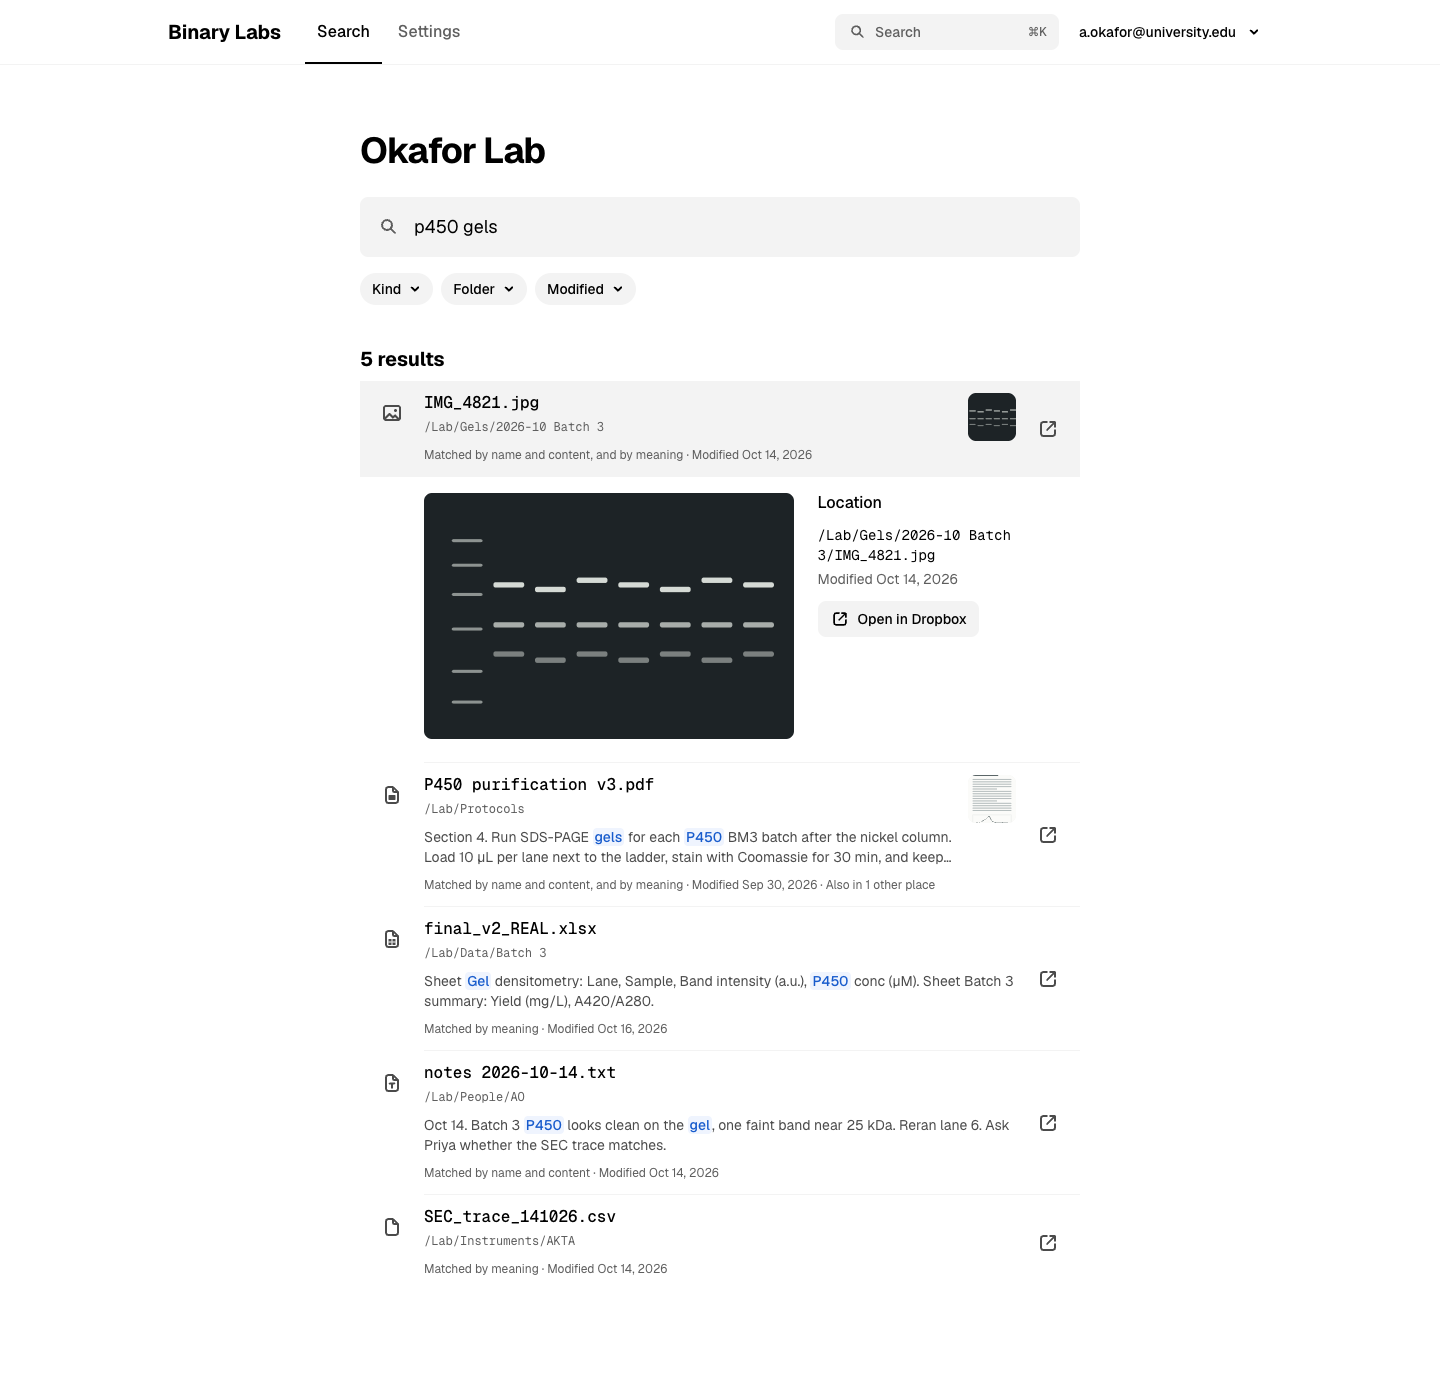
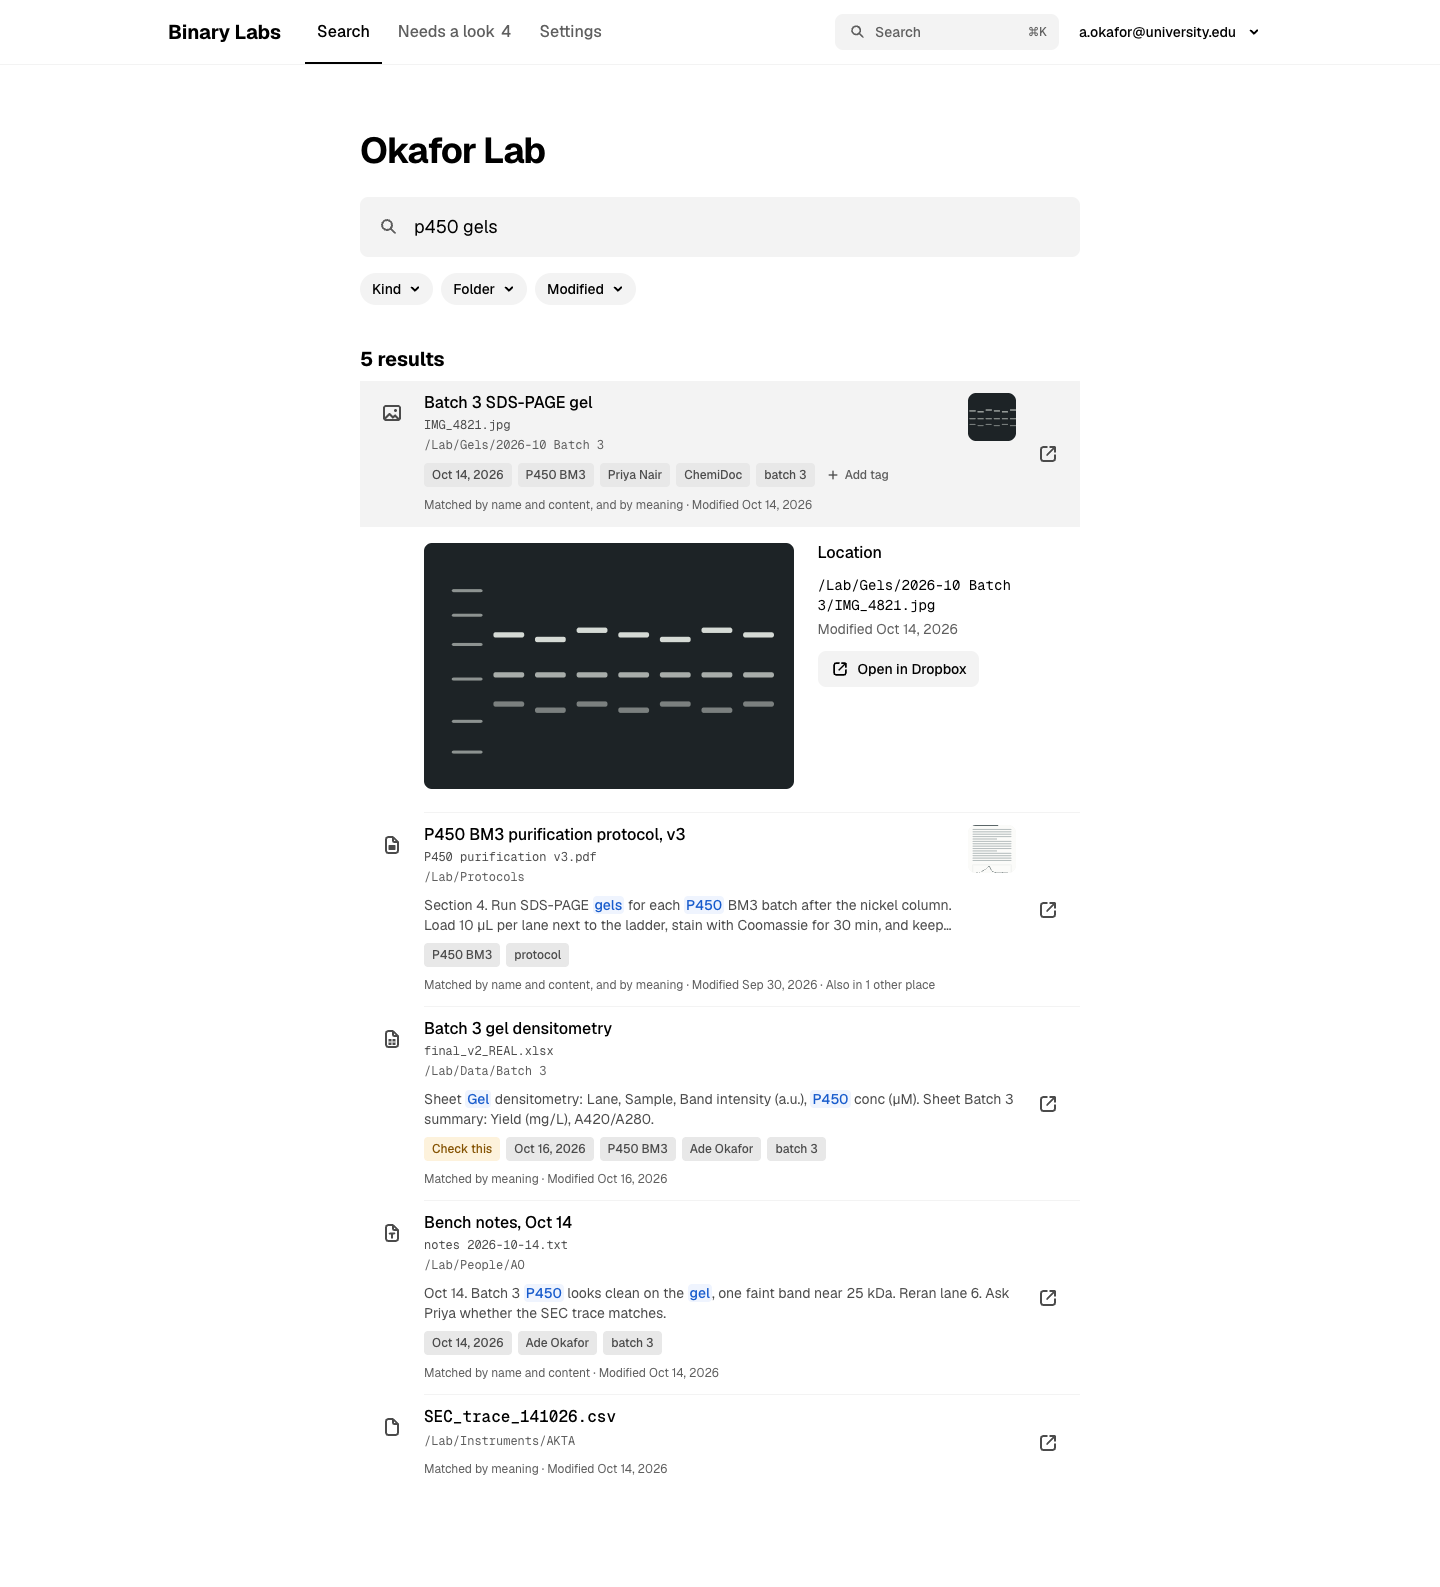
label fixtures and screenshots

diff --git a/apps/web/src/fixtures/data.ts b/apps/web/src/fixtures/data.ts
@@ -1,4 +1,13 @@
-import { LabMemberRows, SearchFilesRows, type FileHit } from "@/lib/domain";
+import {
+  ExperimentRows,
+  LabelRow,
+  LabMemberRows,
+  NeedsLookRows,
+  PersonRows,
+  SearchFilesRows,
+  type FileHit,
+  type Label,
+} from "@/lib/domain";
 import { SourceId } from "@/lib/ids";
 import type { SourceState } from "@/lib/source-state";
 
@@ -15,6 +24,43 @@ const loc = (path: string, modified: string) => ({
   modified_at: modified,
 });
 
+export const experiments = ExperimentRows.parse([
+  { id: "6f1c2c39-5a4e-4c55-9d7b-0c3c1a7ae001", name: "P450 BM3", aliases: ["BM3", "CYP102A1"] },
+  { id: "6f1c2c39-5a4e-4c55-9d7b-0c3c1a7ae002", name: "Solubility screen", aliases: ["sol screen"] },
+  { id: "6f1c2c39-5a4e-4c55-9d7b-0c3c1a7ae003", name: "Rotation projects", aliases: [] },
+]);
+
+export const people = PersonRows.parse([
+  { id: "6f1c2c39-5a4e-4c55-9d7b-0c3c1a7af001", display_name: "Ade Okafor", aliases: ["AO", "Ade"] },
+  { id: "6f1c2c39-5a4e-4c55-9d7b-0c3c1a7af002", display_name: "Priya Nair", aliases: ["PN", "Priya"] },
+  { id: "6f1c2c39-5a4e-4c55-9d7b-0c3c1a7af003", display_name: "Jordan Morales", aliases: ["JM"] },
+]);
+
+const [bm3, solubility, rotation] = experiments.map((e) => ({ id: e.id, name: e.name }));
+const [ade, priya, jordan] = people.map((p) => ({ id: p.id, name: p.name }));
+
+type LabelInput = {
+  status: Label["status"];
+  clean_name: string | null;
+  date?: string;
+  experiment?: { id: string; name: string };
+  person?: { id: string; name: string };
+  instrument?: string;
+  tags?: string[];
+  confidence?: number;
+};
+
+const label = (l: LabelInput) => ({
+  status: l.status,
+  clean_name: l.clean_name,
+  date: l.date ?? null,
+  experiment: l.experiment ?? null,
+  person: l.person ?? null,
+  instrument: l.instrument ?? null,
+  tags: l.tags ?? [],
+  confidence: l.confidence ?? 0.9,
+});
+
 const row = (r: {
   c: string;
   kind: string;
@@ -24,6 +70,7 @@ const row = (r: {
   k: number | null;
   v: number | null;
   locations: ReturnType<typeof loc>[];
+  label: ReturnType<typeof label> | null;
 }) => ({
   sha256: r.c.repeat(64),
   score: 0.03,
@@ -35,6 +82,7 @@ const row = (r: {
   size: 182_000,
   has_preview: r.preview,
   locations: r.locations,
+  label: r.label,
 });
 
 export const searchHits = SearchFilesRows.parse([
@@ -47,6 +95,7 @@ export const searchHits = SearchFilesRows.parse([
     k: 1,
     v: 1,
     locations: [loc("/Lab/Gels/2026-10 Batch 3/IMG_4821.jpg", "2026-10-14T16:12:00Z")],
+    label: label({ status: "suggested", clean_name: "Batch 3 SDS-PAGE gel", date: "2026-10-14", experiment: bm3, person: priya, instrument: "ChemiDoc", tags: ["batch 3"] }),
   }),
   row({
     c: "b",
@@ -61,6 +110,7 @@ export const searchHits = SearchFilesRows.parse([
       loc("/Lab/Protocols/P450 purification v3.pdf", "2026-09-30T10:00:00Z"),
       loc("/Lab/Archive/2025/P450 purification v3.pdf", "2025-11-02T10:00:00Z"),
     ],
+    label: label({ status: "accepted", clean_name: "P450 BM3 purification protocol, v3", experiment: bm3, tags: ["protocol"], confidence: 1 }),
   }),
   row({
     c: "d",
@@ -71,6 +121,7 @@ export const searchHits = SearchFilesRows.parse([
     k: null,
     v: 2,
     locations: [loc("/Lab/Data/Batch 3/final_v2_REAL.xlsx", "2026-10-16T08:40:00Z")],
+    label: label({ status: "check", clean_name: "Batch 3 gel densitometry", date: "2026-10-16", experiment: bm3, person: ade, tags: ["batch 3"], confidence: 0.55 }),
   }),
   row({
     c: "e",
@@ -82,6 +133,7 @@ export const searchHits = SearchFilesRows.parse([
     k: 3,
     v: null,
     locations: [loc("/Lab/People/AO/notes 2026-10-14.txt", "2026-10-14T21:05:00Z")],
+    label: label({ status: "suggested", clean_name: "Bench notes, Oct 14", date: "2026-10-14", person: ade, tags: ["batch 3"] }),
   }),
   row({
     c: "f",
@@ -92,6 +144,7 @@ export const searchHits = SearchFilesRows.parse([
     k: null,
     v: 4,
     locations: [loc("/Lab/Instruments/AKTA/SEC_trace_141026.csv", "2026-10-14T13:20:00Z")],
+    label: null,
   }),
 ]);
 
@@ -105,6 +158,7 @@ const recentOnly = SearchFilesRows.parse([
     k: null,
     v: null,
     locations: [loc("/Lab/Instruments/Plate reader/plate7_A420.csv", "2026-11-03T17:44:00Z")],
+    label: label({ status: "suggested", clean_name: "Plate 7 absorbance at 420 nm", date: "2026-11-03", experiment: solubility, instrument: "Plate reader" }),
   }),
   row({
     c: "2",
@@ -115,6 +169,7 @@ const recentOnly = SearchFilesRows.parse([
     k: null,
     v: null,
     locations: [loc("/Lab/Gels/2026-11/IMG_4930.jpg", "2026-11-03T15:02:00Z")],
+    label: label({ status: "needs_look", clean_name: null, confidence: 0.2 }),
   }),
   row({
     c: "3",
@@ -125,10 +180,38 @@ const recentOnly = SearchFilesRows.parse([
     k: null,
     v: null,
     locations: [loc("/Lab/People/JM/rotation plan.docx", "2026-11-02T11:30:00Z")],
+    label: null,
   }),
 ]);
 
 export const recentFiles: FileHit[] = [...recentOnly, ...searchHits.slice(0, 2).map((h) => ({ ...h, matchedBy: [] }))];
+
+// Labels the fixture API hands out when the results list polls for files that had none.
+export const laterLabels: Record<string, Label> = {
+  ["f".repeat(64)]: LabelRow.parse(
+    label({ status: "suggested", clean_name: "SEC trace, batch 3", date: "2026-10-14", experiment: bm3, instrument: "ÄKTA pure", tags: ["batch 3"] }),
+  ),
+  ["3".repeat(64)]: LabelRow.parse(label({ status: "suggested", clean_name: "Rotation project plan", experiment: rotation, person: jordan })),
+};
+
+const queued = label({ status: "needs_look", clean_name: null, confidence: 0.2 });
+
+export const needsLookFiles = NeedsLookRows.parse([
+  row({ c: "2", kind: "image", mime: "image/jpeg", preview: true, snippet: null, k: null, v: null, locations: [loc("/Lab/Gels/2026-11/IMG_4930.jpg", "2026-11-03T15:02:00Z")], label: queued }),
+  row({
+    c: "7",
+    kind: "pdf",
+    mime: "application/pdf",
+    preview: false,
+    snippet: "Run 14. Column temp 25 C. Flow 0.5 mL/min. Peak 1 at 11.2 min, peak 2 at 13.9 min. See notebook p. 41.",
+    k: null,
+    v: null,
+    locations: [loc("/Lab/Scans/scan0042.pdf", "2026-11-02T18:40:00Z")],
+    label: queued,
+  }),
+  row({ c: "8", kind: "spreadsheet", mime: "text/csv", preview: false, snippet: "A, B, C, D\n0.412, 0.398, 0.405, 0.611", k: null, v: null, locations: [loc("/Lab/Data/data (3).csv", "2026-11-01T09:12:00Z")], label: queued }),
+  row({ c: "9", kind: "other", mime: "application/octet-stream", preview: false, snippet: null, k: null, v: null, locations: [loc("/Lab/Instruments/Nanodrop/export_0007.ndj", "2026-10-30T14:00:00Z")], label: queued }),
+]);
 
 export const scanningSource: SourceState = {
   kind: "connected",

diff --git a/apps/web/src/fixtures/fixture-labels.ts b/apps/web/src/fixtures/fixture-labels.ts
@@ -1,0 +1,48 @@
+import type { Correction, FileLabel, Label } from "@/lib/domain";
+import { CorrectionId, type Sha256 } from "@/lib/ids";
+import { optimisticLabel, sameLabel, type LabelDraft } from "@/lib/label-edit";
+
+// correct_label, undo_correction and file_labels in memory, with the database's rules,
+// for the fixture pages. A file in `later` gains its label on its second poll.
+export function createFixtureLabels({ initial, later }: { initial: readonly { sha256: Sha256; label: Label | null }[]; later: Record<string, Label> }) {
+  const labels = new Map<Sha256, Label>();
+  for (const { sha256, label } of initial) if (label !== null) labels.set(sha256, label);
+  const polls = new Map<Sha256, number>();
+  const corrections = new Map<number, { sha256: Sha256; before: Label; after: Label; undone: boolean }>();
+  let nextId = 1;
+
+  return {
+    get: (sha: Sha256): Label | null => labels.get(sha) ?? null,
+    poll: (shas: readonly Sha256[]): FileLabel[] =>
+      shas.flatMap((sha256) => {
+        const pending = later[sha256];
+        if (!labels.has(sha256) && pending !== undefined) {
+          const count = (polls.get(sha256) ?? 0) + 1;
+          polls.set(sha256, count);
+          if (count >= 2) labels.set(sha256, pending);
+        }
+        const label = labels.get(sha256);
+        return label === undefined ? [] : [{ sha256, label }];
+      }),
+    correct: (sha256: Sha256, draft: LabelDraft): Correction => {
+      const before = labels.get(sha256);
+      if (before === undefined) throw new Error("This file doesn't have a label yet.");
+      const after = optimisticLabel(before, draft);
+      labels.set(sha256, after);
+      const id = nextId++;
+      corrections.set(id, { sha256, before, after, undone: false });
+      return { correctionId: CorrectionId.parse(id), label: after };
+    },
+    undo: (id: CorrectionId): Correction => {
+      const correction = corrections.get(id);
+      if (correction === undefined) throw new Error("There's nothing to undo.");
+      if (correction.undone) throw new Error("That change was already undone.");
+      if (!sameLabel(labels.get(correction.sha256) ?? null, correction.after)) {
+        throw new Error("The label changed since, so that undo no longer applies.");
+      }
+      correction.undone = true;
+      labels.set(correction.sha256, correction.before);
+      return { correctionId: CorrectionId.parse(nextId++), label: correction.before };
+    },
+  };
+}

diff --git a/apps/web/src/fixtures/fixture-api.tsx b/apps/web/src/fixtures/fixture-api.tsx
@@ -1,18 +1,19 @@
 "use client";
 
-import type { ReactNode } from "react";
+import { useState, type ReactNode } from "react";
 import { LabApiProvider, type LabApi } from "@/components/lab-api";
 import type { FileHit } from "@/lib/domain";
 import type { SourceState } from "@/lib/source-state";
-import { folders, searchHits } from "./data";
+import { folders, laterLabels, needsLookFiles, recentFiles, searchHits } from "./data";
+import { createFixtureLabels } from "./fixture-labels";
 import { PREVIEW_BY_FIRST_CHAR } from "./previews";
 
 export type FixtureSearchMode = "hybrid" | "keyword";
 
-const wait = (ms: number, signal: AbortSignal) =>
+const wait = (ms: number, signal?: AbortSignal) =>
   new Promise<void>((resolve, reject) => {
     const id = setTimeout(resolve, ms);
-    signal.addEventListener("abort", () => {
+    signal?.addEventListener("abort", () => {
       clearTimeout(id);
       reject(signal.reason);
     });
@@ -31,12 +32,16 @@ export function FixtureLabApi({
   source: SourceState;
   children: ReactNode;
 }) {
+  const [labels] = useState(() =>
+    createFixtureLabels({ initial: [...searchHits, ...recentFiles, ...needsLookFiles], later: laterLabels }),
+  );
+  const withLabels = (hits: FileHit[]) => hits.map((h) => ({ ...h, label: labels.get(h.sha256) }));
   const api: LabApi = {
     search: async (_params, signal) => {
       await wait(120, signal);
       return mode === "hybrid"
-        ? { kind: "hybrid", results: searchHits }
-        : { kind: "keyword", reason: "embed_timeout", results: keywordOnly(searchHits) };
+        ? { kind: "hybrid", results: withLabels(searchHits) }
+        : { kind: "keyword", reason: "embed_timeout", results: withLabels(keywordOnly(searchHits)) };
     },
     sourceState: async () => source,
     folders: async (path, signal) => {
@@ -44,6 +49,18 @@ export function FixtureLabApi({
       return { path, folders: folders[path] ?? [] };
     },
     previewUrl: (sha) => PREVIEW_BY_FIRST_CHAR[sha.charAt(0)] ?? "",
+    fileLabels: async (shas, signal) => {
+      await wait(80, signal);
+      return labels.poll(shas);
+    },
+    correctLabel: async (sha, draft) => {
+      await wait(150);
+      return labels.correct(sha, draft);
+    },
+    undoCorrection: async (id) => {
+      await wait(150);
+      return labels.undo(id);
+    },
   };
   return <LabApiProvider value={api}>{children}</LabApiProvider>;
 }

diff --git a/apps/web/src/app/dev/fixtures/search/page.dev.tsx b/apps/web/src/app/dev/fixtures/search/page.dev.tsx
@@ -1,7 +1,7 @@
 import { z } from "zod";
 import { AppShell } from "@/components/app-shell";
 import { SearchHome } from "@/components/search/search-home";
-import { doneSource, recentFiles, scanningSource } from "@/fixtures/data";
+import { doneSource, experiments, needsLookFiles, people, recentFiles, scanningSource } from "@/fixtures/data";
 import { FixtureLabApi } from "@/fixtures/fixture-api";
 import { requireFixtures, type FixtureProps } from "@/fixtures/gate";
 
@@ -13,8 +13,14 @@ export default async function SearchFixture({ searchParams }: FixtureProps) {
   const source = state === "scanning" ? scanningSource : state === "new" ? { kind: "not_connected" as const } : doneSource;
   return (
     <FixtureLabApi mode={state === "keyword" ? "keyword" : "hybrid"} source={source}>
-      <AppShell labName="Okafor Lab" email="a.okafor@university.edu" current="search">
-        <SearchHome labName="Okafor Lab" recent={state === "new" ? [] : recentFiles} source={source} isAdmin />
+      <AppShell labName="Okafor Lab" email="a.okafor@university.edu" current="search" needsLookCount={state === "new" ? 0 : needsLookFiles.length}>
+        <SearchHome
+          labName="Okafor Lab"
+          recent={state === "new" ? [] : recentFiles}
+          source={source}
+          isAdmin
+          lists={{ experiments, people }}
+        />
       </AppShell>
     </FixtureLabApi>
   );

diff --git a/apps/web/src/app/dev/fixtures/lab/page.dev.tsx b/apps/web/src/app/dev/fixtures/lab/page.dev.tsx
@@ -1,7 +1,7 @@
 import { z } from "zod";
 import { LabView } from "@/app/lab/lab-view";
 import { AppShell } from "@/components/app-shell";
-import { members, scanningSource } from "@/fixtures/data";
+import { experiments, members, needsLookFiles, people, scanningSource } from "@/fixtures/data";
 import { FixtureLabApi } from "@/fixtures/fixture-api";
 import { requireFixtures, type FixtureProps } from "@/fixtures/gate";
 
@@ -13,13 +13,15 @@ export default async function LabFixture({ searchParams }: FixtureProps) {
   const source = state === "connect" ? { kind: "not_connected" as const } : scanningSource;
   return (
     <FixtureLabApi mode="hybrid" source={source}>
-      <AppShell labName="Okafor Lab" email="a.okafor@university.edu" current="lab">
+      <AppShell labName="Okafor Lab" email="a.okafor@university.edu" current="lab" needsLookCount={needsLookFiles.length}>
         <LabView
           labName="Okafor Lab"
           email="a.okafor@university.edu"
           isAdmin
           source={source}
           members={state === "connect" ? members.slice(0, 1) : members}
+          experiments={state === "connect" ? [] : experiments}
+          people={state === "connect" ? [] : people}
           notice={null}
         />
       </AppShell>

diff --git a/apps/web/src/app/dev/fixtures/needs-a-look/page.dev.tsx b/apps/web/src/app/dev/fixtures/needs-a-look/page.dev.tsx
@@ -1,0 +1,20 @@
+import { z } from "zod";
+import { NeedsLookView } from "@/app/needs-a-look/needs-look-view";
+import { AppShell } from "@/components/app-shell";
+import { doneSource, needsLookFiles } from "@/fixtures/data";
+import { FixtureLabApi } from "@/fixtures/fixture-api";
+import { requireFixtures, type FixtureProps } from "@/fixtures/gate";
+
+const State = z.enum(["queue", "empty"]).catch("queue");
+
+export default async function NeedsLookFixture({ searchParams }: FixtureProps) {
+  requireFixtures();
+  const files = State.parse((await searchParams).state) === "empty" ? [] : needsLookFiles;
+  return (
+    <FixtureLabApi mode="hybrid" source={doneSource}>
+      <AppShell labName="Okafor Lab" email="a.okafor@university.edu" current="needs-look" needsLookCount={files.length}>
+        <NeedsLookView files={files} />
+      </AppShell>
+    </FixtureLabApi>
+  );
+}

diff --git a/apps/web/src/app/dev/fixtures/folder/page.dev.tsx b/apps/web/src/app/dev/fixtures/folder/page.dev.tsx
@@ -1,6 +1,6 @@
 import { FolderView } from "@/app/lab/folder/folder-view";
 import { AppShell } from "@/components/app-shell";
-import { scanningSource } from "@/fixtures/data";
+import { needsLookFiles, scanningSource } from "@/fixtures/data";
 import { FixtureLabApi } from "@/fixtures/fixture-api";
 import { requireFixtures } from "@/fixtures/gate";
 
@@ -8,7 +8,7 @@ export default function FolderFixture() {
   requireFixtures();
   return (
     <FixtureLabApi mode="hybrid" source={scanningSource}>
-      <AppShell labName="Okafor Lab" email="a.okafor@university.edu" current="lab">
+      <AppShell labName="Okafor Lab" email="a.okafor@university.edu" current="lab" needsLookCount={needsLookFiles.length}>
         <FolderView accountLabel="a.okafor@university.edu" />
       </AppShell>
     </FixtureLabApi>
